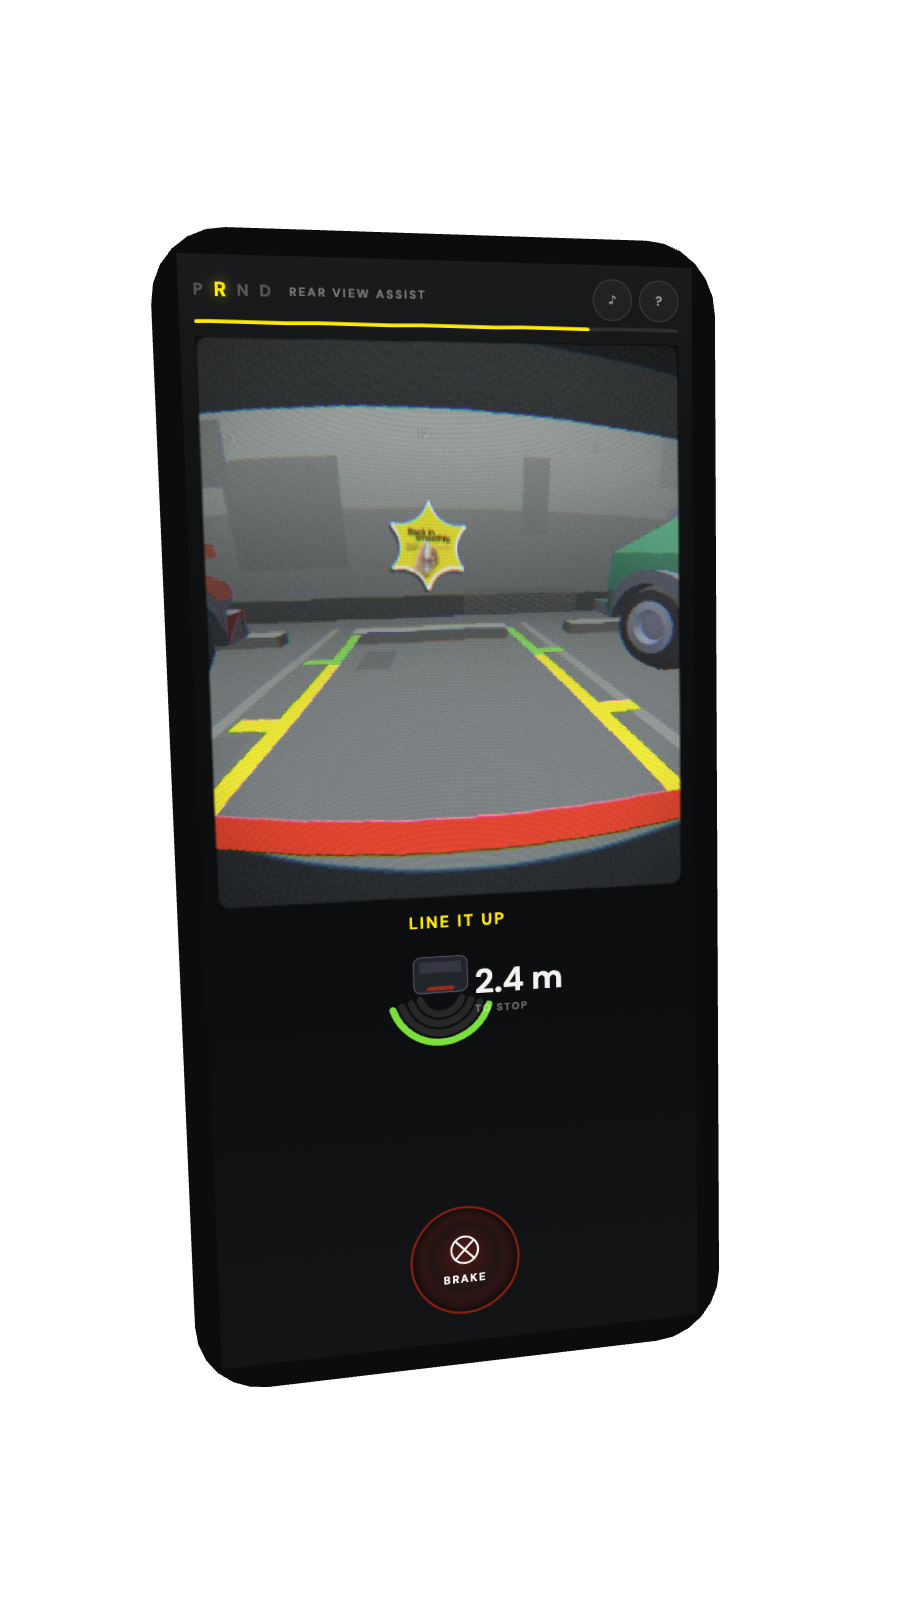
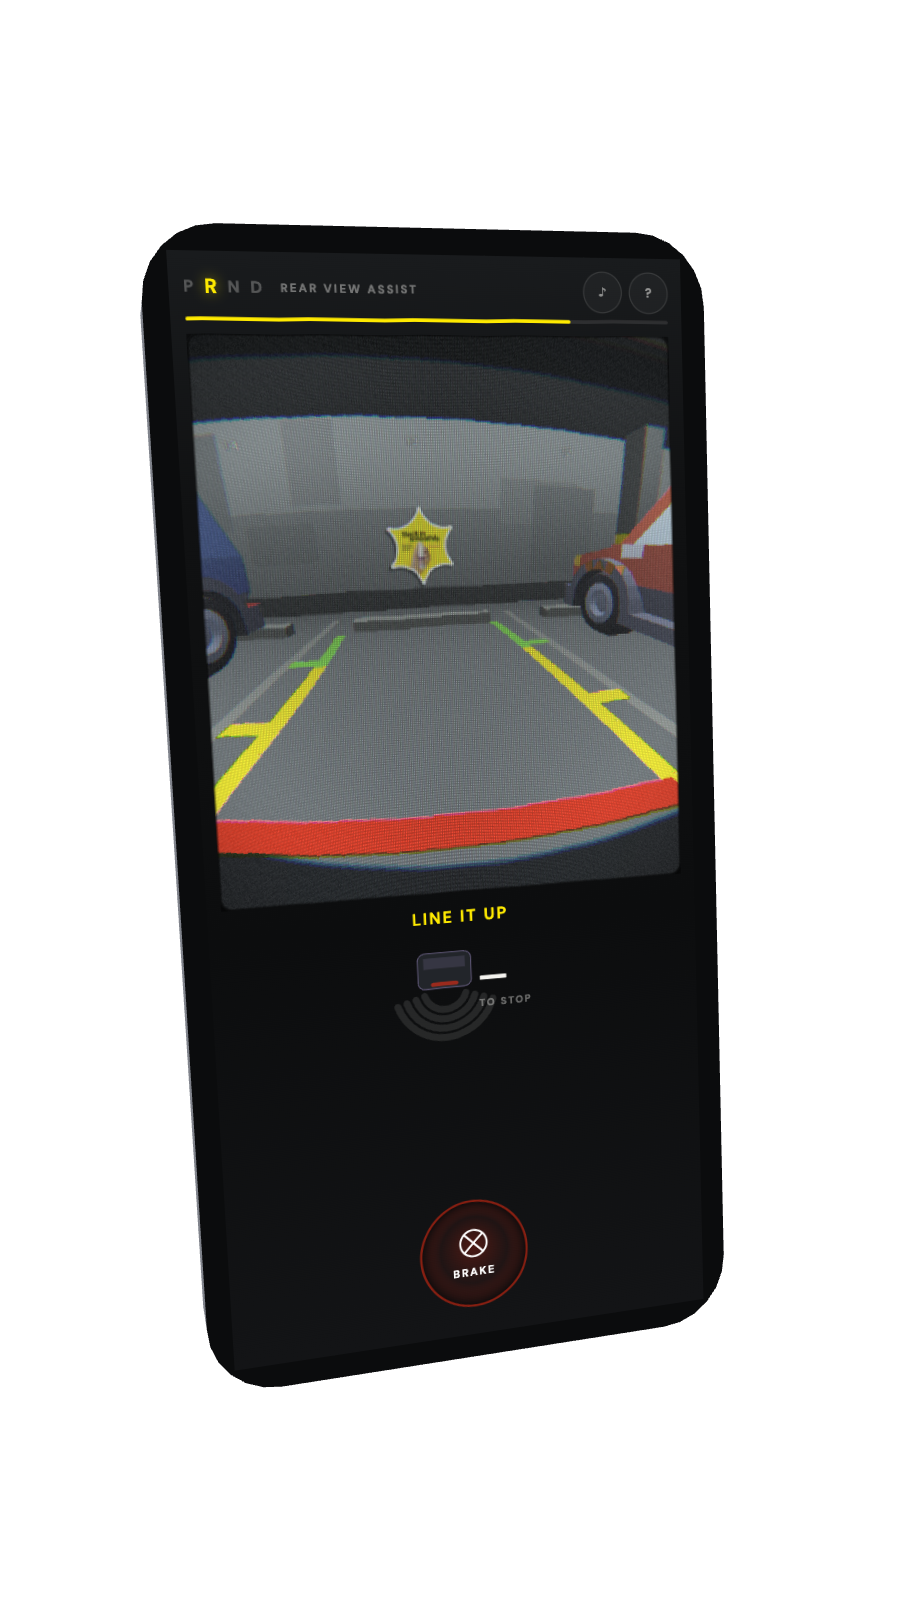
Fringe at the edges only, and a grid you can see at arm's length
Chromatic aberration had a constant term in it, so it sat over the whole frame
including the optical axis, which is not what a lens does. It is now purely
radial — nothing in the middle, climbing steeply into the corners — which also
means the poster, dead centre at the payoff, is never touched by it.

The grid had been tuned dense enough that it only resolved under magnification.
Panel back to 348 across so a pixel covers a bit over two output pixels, and
the RGB matrix is now one colour per pixel column instead of three subpixels
inside each: a third of a panel pixel is finer than an output pixel and only
aliases, a whole column resolves and still reads as a matrix.

diff --git a/dist/embed.html b/dist/embed.html
@@ -2409,7 +2409,8 @@ window.PM_MODELS = {
          sample to pixel centres quantises away any offset smaller than a
          texel, which is what made the aberration vanish once the grid arrived. */
       vec2 dir = r2 > 1e-7 ? normalize(p / vec2(uAspect, 1.0)) : vec2(0.0);
-      vec2 off = dir * texel * (uChroma * (0.75 + r2 * 2.4));
+      // zero on the optical axis, climbing steeply towards the corners
+      vec2 off = dir * texel * (uChroma * (r2 * 2.0 + r2 * r2 * 6.5));
 
       vec3 col;
       col.r = texture2D(uTex, clamp(SNAP(uvG + off), 0.001, 0.999)).r;
@@ -2452,23 +2453,25 @@ window.PM_MODELS = {
          what can actually be resolved or the matrix aliases into a diagonal
          weave instead of a grid. */
       float cellPx = 1.0 / max(fwidth(cell.x), 1e-5);
-      float latAmt = smoothstep(1.1, 2.4, cellPx) * uGrille;
-      float subAmt = smoothstep(3.0, 6.0, cellPx) * uGrille;
+      float latAmt = smoothstep(0.9, 1.9, cellPx) * uGrille;
 
       vec2 f = fract(cell);
       float gx = 0.5 - 0.5 * cos(f.x * 6.2831853);
       float gy = 0.5 - 0.5 * cos(f.y * 6.2831853);
-      float door = mix(1.0, 0.40 + 0.60 * gx * gy, latAmt);
-      // three subpixels to a pixel, but only where they fit
-      float sub = floor(f.x * 3.0);
-      vec3 stripe = vec3(sub < 1.0 ? 1.0 : 0.66,
-                         (sub >= 1.0 && sub < 2.0) ? 1.0 : 0.66,
-                         sub >= 2.0 ? 1.0 : 0.66);
-      vec3 matrix = mix(vec3(1.0), stripe, subAmt) * door;
+      float door = mix(1.0, 0.34 + 0.66 * gx * gy, latAmt);
+      /* One colour per pixel column rather than three subpixels inside each:
+         at this density a third of a panel pixel is finer than an output pixel
+         and only aliases, but a whole column resolves and still reads as an
+         RGB matrix. */
+      float lane = mod(floor(cell.x), 3.0);
+      vec3 tint = vec3(lane < 1.0 ? 1.0 : 0.93,
+                       (lane >= 1.0 && lane < 2.0) ? 1.0 : 0.93,
+                       lane >= 2.0 ? 1.0 : 0.93);
+      vec3 matrix = mix(vec3(1.0), tint, latAmt) * door;
       float scan = sin(cell.y * 3.14159265);
       matrix *= mix(1.0, 0.92 + 0.08 * scan * scan, uScan);
       col *= matrix;
-      col *= 1.0 + latAmt * 0.46 + subAmt * 0.18;   // give back what it took
+      col *= 1.0 + latAmt * 0.40;   // give back what the lattice took
       // slow rolling refresh bar
       col *= 1.0 + (1.0 - uReduce) * 0.016 * sin(luv.y * 5.0 - uTime * 0.9);
 
@@ -2667,15 +2670,15 @@ window.PM_MODELS = {
   /* ---- the look, in one place ------------------------------------------- */
   const LOOK = {
     k1: 0.52, k2: 0.20,      // a proper wide-angle bow, not a hint of one
-    chroma: 1.35,            // measured in panel pixels, so it survives snapping
+    chroma: 2.1,             // measured in panel pixels, so it survives snapping
     scan: 0.5,
     grain: 0.05,
     vignette: 0.8,
     bloom: 0.22,
     gain: 1.03,
     sat: 0.78,
-    panel: 432,      // the display's horizontal pixel count
-    grille: 0.5,
+    panel: 348,      // the display's horizontal pixel count
+    grille: 0.62,
     lines: 240,
   };
 

diff --git a/index.html b/index.html
@@ -2416,7 +2416,8 @@ window.PM_MODELS = {
          sample to pixel centres quantises away any offset smaller than a
          texel, which is what made the aberration vanish once the grid arrived. */
       vec2 dir = r2 > 1e-7 ? normalize(p / vec2(uAspect, 1.0)) : vec2(0.0);
-      vec2 off = dir * texel * (uChroma * (0.75 + r2 * 2.4));
+      // zero on the optical axis, climbing steeply towards the corners
+      vec2 off = dir * texel * (uChroma * (r2 * 2.0 + r2 * r2 * 6.5));
 
       vec3 col;
       col.r = texture2D(uTex, clamp(SNAP(uvG + off), 0.001, 0.999)).r;
@@ -2459,23 +2460,25 @@ window.PM_MODELS = {
          what can actually be resolved or the matrix aliases into a diagonal
          weave instead of a grid. */
       float cellPx = 1.0 / max(fwidth(cell.x), 1e-5);
-      float latAmt = smoothstep(1.1, 2.4, cellPx) * uGrille;
-      float subAmt = smoothstep(3.0, 6.0, cellPx) * uGrille;
+      float latAmt = smoothstep(0.9, 1.9, cellPx) * uGrille;
 
       vec2 f = fract(cell);
       float gx = 0.5 - 0.5 * cos(f.x * 6.2831853);
       float gy = 0.5 - 0.5 * cos(f.y * 6.2831853);
-      float door = mix(1.0, 0.40 + 0.60 * gx * gy, latAmt);
-      // three subpixels to a pixel, but only where they fit
-      float sub = floor(f.x * 3.0);
-      vec3 stripe = vec3(sub < 1.0 ? 1.0 : 0.66,
-                         (sub >= 1.0 && sub < 2.0) ? 1.0 : 0.66,
-                         sub >= 2.0 ? 1.0 : 0.66);
-      vec3 matrix = mix(vec3(1.0), stripe, subAmt) * door;
+      float door = mix(1.0, 0.34 + 0.66 * gx * gy, latAmt);
+      /* One colour per pixel column rather than three subpixels inside each:
+         at this density a third of a panel pixel is finer than an output pixel
+         and only aliases, but a whole column resolves and still reads as an
+         RGB matrix. */
+      float lane = mod(floor(cell.x), 3.0);
+      vec3 tint = vec3(lane < 1.0 ? 1.0 : 0.93,
+                       (lane >= 1.0 && lane < 2.0) ? 1.0 : 0.93,
+                       lane >= 2.0 ? 1.0 : 0.93);
+      vec3 matrix = mix(vec3(1.0), tint, latAmt) * door;
       float scan = sin(cell.y * 3.14159265);
       matrix *= mix(1.0, 0.92 + 0.08 * scan * scan, uScan);
       col *= matrix;
-      col *= 1.0 + latAmt * 0.46 + subAmt * 0.18;   // give back what it took
+      col *= 1.0 + latAmt * 0.40;   // give back what the lattice took
       // slow rolling refresh bar
       col *= 1.0 + (1.0 - uReduce) * 0.016 * sin(luv.y * 5.0 - uTime * 0.9);
 
@@ -2674,15 +2677,15 @@ window.PM_MODELS = {
   /* ---- the look, in one place ------------------------------------------- */
   const LOOK = {
     k1: 0.52, k2: 0.20,      // a proper wide-angle bow, not a hint of one
-    chroma: 1.35,            // measured in panel pixels, so it survives snapping
+    chroma: 2.1,             // measured in panel pixels, so it survives snapping
     scan: 0.5,
     grain: 0.05,
     vignette: 0.8,
     bloom: 0.22,
     gain: 1.03,
     sat: 0.78,
-    panel: 432,      // the display's horizontal pixel count
-    grille: 0.5,
+    panel: 348,      // the display's horizontal pixel count
+    grille: 0.62,
     lines: 240,
   };
 

diff --git a/src/post.js b/src/post.js
@@ -72,7 +72,8 @@
          sample to pixel centres quantises away any offset smaller than a
          texel, which is what made the aberration vanish once the grid arrived. */
       vec2 dir = r2 > 1e-7 ? normalize(p / vec2(uAspect, 1.0)) : vec2(0.0);
-      vec2 off = dir * texel * (uChroma * (0.75 + r2 * 2.4));
+      // zero on the optical axis, climbing steeply towards the corners
+      vec2 off = dir * texel * (uChroma * (r2 * 2.0 + r2 * r2 * 6.5));
 
       vec3 col;
       col.r = texture2D(uTex, clamp(SNAP(uvG + off), 0.001, 0.999)).r;
@@ -115,23 +116,25 @@
          what can actually be resolved or the matrix aliases into a diagonal
          weave instead of a grid. */
       float cellPx = 1.0 / max(fwidth(cell.x), 1e-5);
-      float latAmt = smoothstep(1.1, 2.4, cellPx) * uGrille;
-      float subAmt = smoothstep(3.0, 6.0, cellPx) * uGrille;
+      float latAmt = smoothstep(0.9, 1.9, cellPx) * uGrille;
 
       vec2 f = fract(cell);
       float gx = 0.5 - 0.5 * cos(f.x * 6.2831853);
       float gy = 0.5 - 0.5 * cos(f.y * 6.2831853);
-      float door = mix(1.0, 0.40 + 0.60 * gx * gy, latAmt);
-      // three subpixels to a pixel, but only where they fit
-      float sub = floor(f.x * 3.0);
-      vec3 stripe = vec3(sub < 1.0 ? 1.0 : 0.66,
-                         (sub >= 1.0 && sub < 2.0) ? 1.0 : 0.66,
-                         sub >= 2.0 ? 1.0 : 0.66);
-      vec3 matrix = mix(vec3(1.0), stripe, subAmt) * door;
+      float door = mix(1.0, 0.34 + 0.66 * gx * gy, latAmt);
+      /* One colour per pixel column rather than three subpixels inside each:
+         at this density a third of a panel pixel is finer than an output pixel
+         and only aliases, but a whole column resolves and still reads as an
+         RGB matrix. */
+      float lane = mod(floor(cell.x), 3.0);
+      vec3 tint = vec3(lane < 1.0 ? 1.0 : 0.93,
+                       (lane >= 1.0 && lane < 2.0) ? 1.0 : 0.93,
+                       lane >= 2.0 ? 1.0 : 0.93);
+      vec3 matrix = mix(vec3(1.0), tint, latAmt) * door;
       float scan = sin(cell.y * 3.14159265);
       matrix *= mix(1.0, 0.92 + 0.08 * scan * scan, uScan);
       col *= matrix;
-      col *= 1.0 + latAmt * 0.46 + subAmt * 0.18;   // give back what it took
+      col *= 1.0 + latAmt * 0.40;   // give back what the lattice took
       // slow rolling refresh bar
       col *= 1.0 + (1.0 - uReduce) * 0.016 * sin(luv.y * 5.0 - uTime * 0.9);
 
@@ -330,15 +333,15 @@
   /* ---- the look, in one place ------------------------------------------- */
   const LOOK = {
     k1: 0.52, k2: 0.20,      // a proper wide-angle bow, not a hint of one
-    chroma: 1.35,            // measured in panel pixels, so it survives snapping
+    chroma: 2.1,             // measured in panel pixels, so it survives snapping
     scan: 0.5,
     grain: 0.05,
     vignette: 0.8,
     bloom: 0.22,
     gain: 1.03,
     sat: 0.78,
-    panel: 432,      // the display's horizontal pixel count
-    grille: 0.5,
+    panel: 348,      // the display's horizontal pixel count
+    grille: 0.62,
     lines: 240,
   };
 

diff --git a/README.md b/README.md
@@ -54,7 +54,10 @@ Everything on screen is either a reversing camera, a car park, or PlatanoMelón.
   pixels bow with the picture and pack tighter towards the edges rather than
   sitting on top as a flat mesh. The colour fringing is measured in whole panel
   pixels, because snapping the sample to pixel centres quantises away anything
-  smaller than a texel, which is what made an earlier version invisible. How
+  smaller than a texel, which is what made an earlier version invisible. It is
+  zero on the optical axis and climbs steeply towards the corners, because that
+  is what a lens does — the centre of the picture, where the poster ends up, is
+  never touched. How
   much of the matrix gets drawn depends on how many output pixels a panel pixel
   covers, measured per fragment: draw it where it can be resolved, fade it where
   it cannot, or it aliases into a diagonal weave. Beating them together is what
